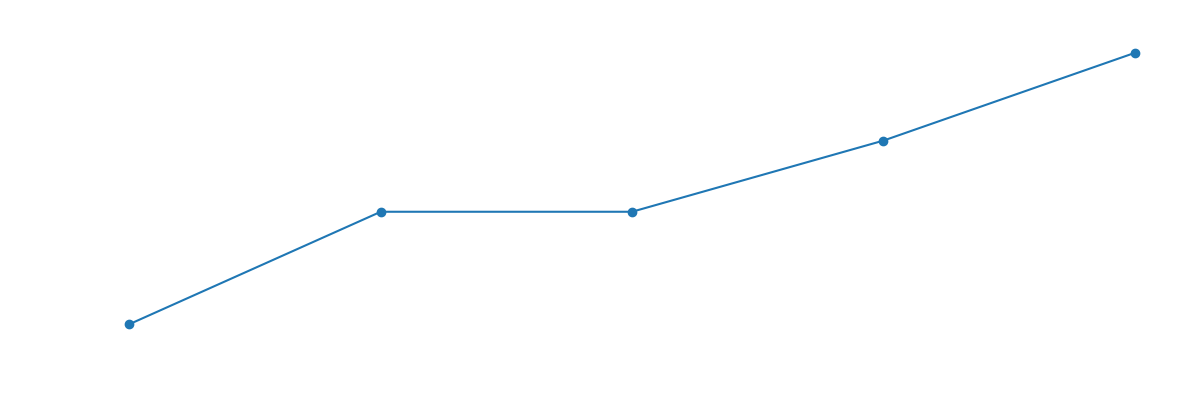
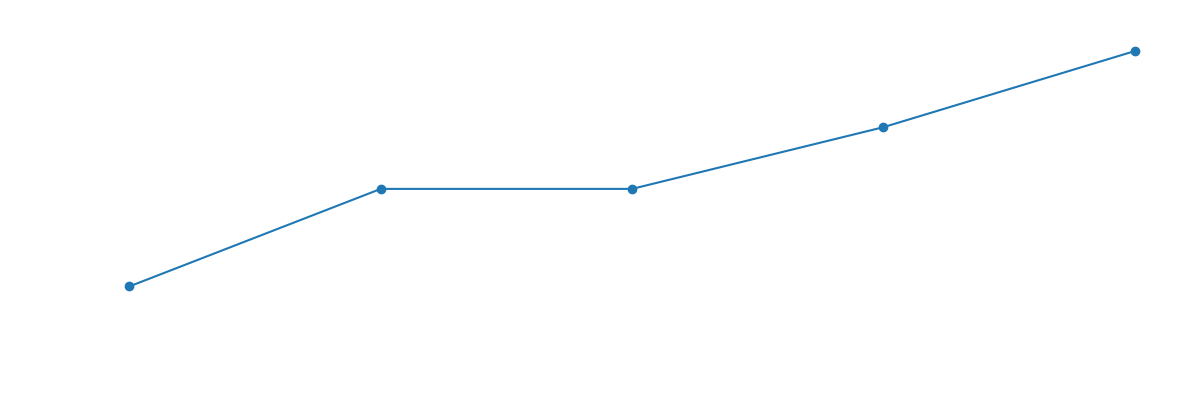
final commit

diff --git a/weather.py b/weather.py
@@ -191,31 +191,30 @@ def weatherforecast():
     '''print(forecastdf[["datetime", "predictedtemperature", "predictedcondition"]].head(5))'''
 
     def plot_forecast_graph(forecastdf, output_path="static/forecast_temp.png"):
-        from matplotlib.dates import HourLocator, DateFormatter  
+        fig, ax = plt.subplots(figsize=(12, 4))  # Wider and shorter graph
+        fig.patch.set_alpha(0.0)  # Make entire figure background transparent
 
-        fig, ax = plt.subplots(figsize=(12, 4))
-        fig.patch.set_alpha(0.0)  # Transparent background
-
+        # Plot the forecasted temperature
         ax.plot(forecastdf["datetime"], forecastdf["predictedtemperature"],
                 marker='o', linestyle='-', color='tab:blue')
 
+        # Styling
         ax.set_title("Forecasted Temperature (Next 5 Hours)", fontsize=16, color='white')
-        ax.set_xlabel("Time", fontsize=12, color='white')
+        ax.set_xlabel("Datetime", fontsize=12, color='white')
         ax.set_ylabel("Temperature (°C)", fontsize=12, color='white')
-
-        ax.xaxis.set_major_locator(HourLocator(interval=1))  # Show ticks every 1 hour
-        ax.xaxis.set_major_formatter(DateFormatter('%H:%M'))  # Format as HH:MM  # Show hour:minute only
-        ax.tick_params(axis='x', rotation=0, labelsize=10, colors='white')
+        ax.tick_params(axis='x', rotation=45, labelsize=10, colors='white')
         ax.tick_params(axis='y', labelsize=10, colors='white')
 
+        # Remove grid and spines for cleaner look
         ax.grid(False)
         for spine in ax.spines.values():
             spine.set_visible(False)
 
         plt.tight_layout()
+
+        # Save with full transparency and no facecolor
         plt.savefig(output_path, transparent=True, facecolor='none')
         plt.close()
-
 
     plot_forecast_graph(forecastdf)
 
